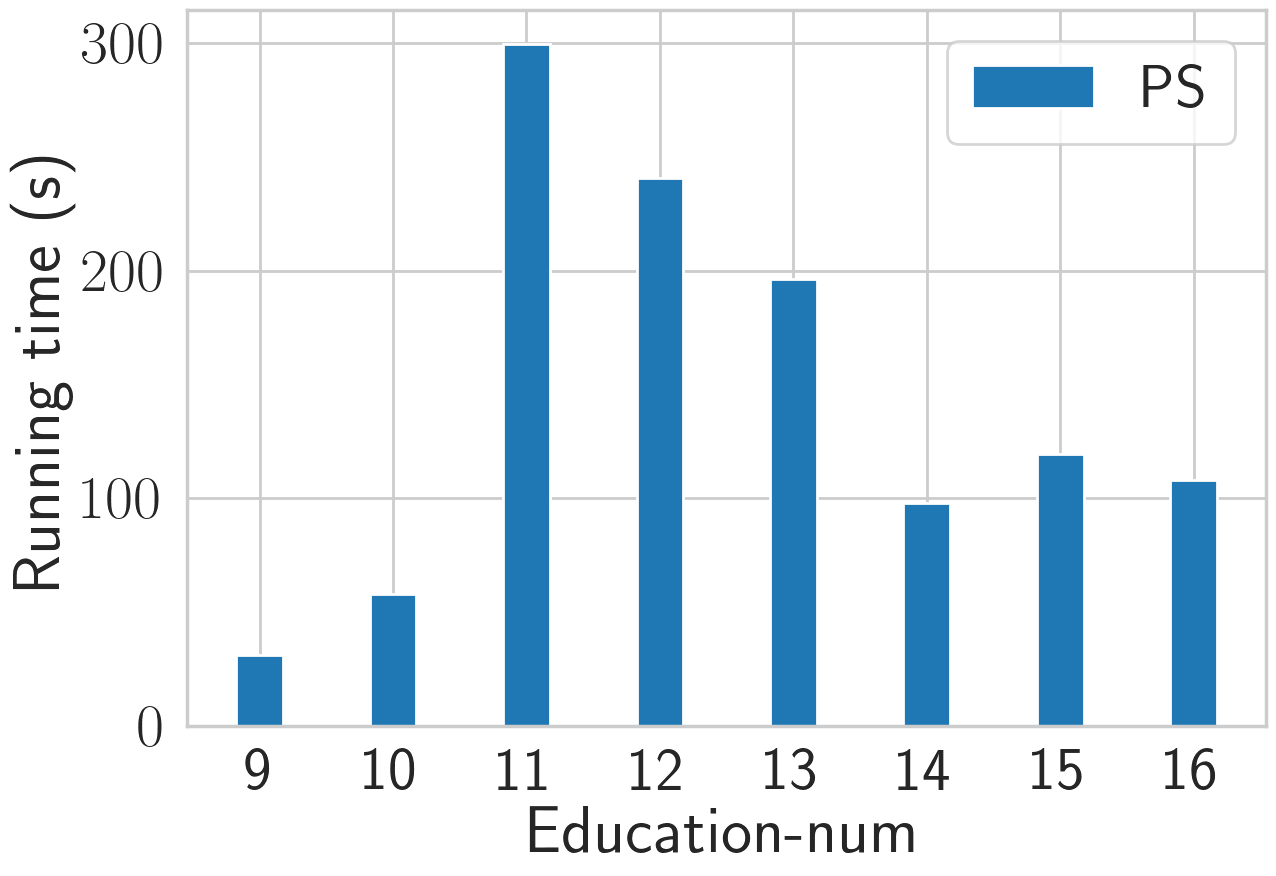
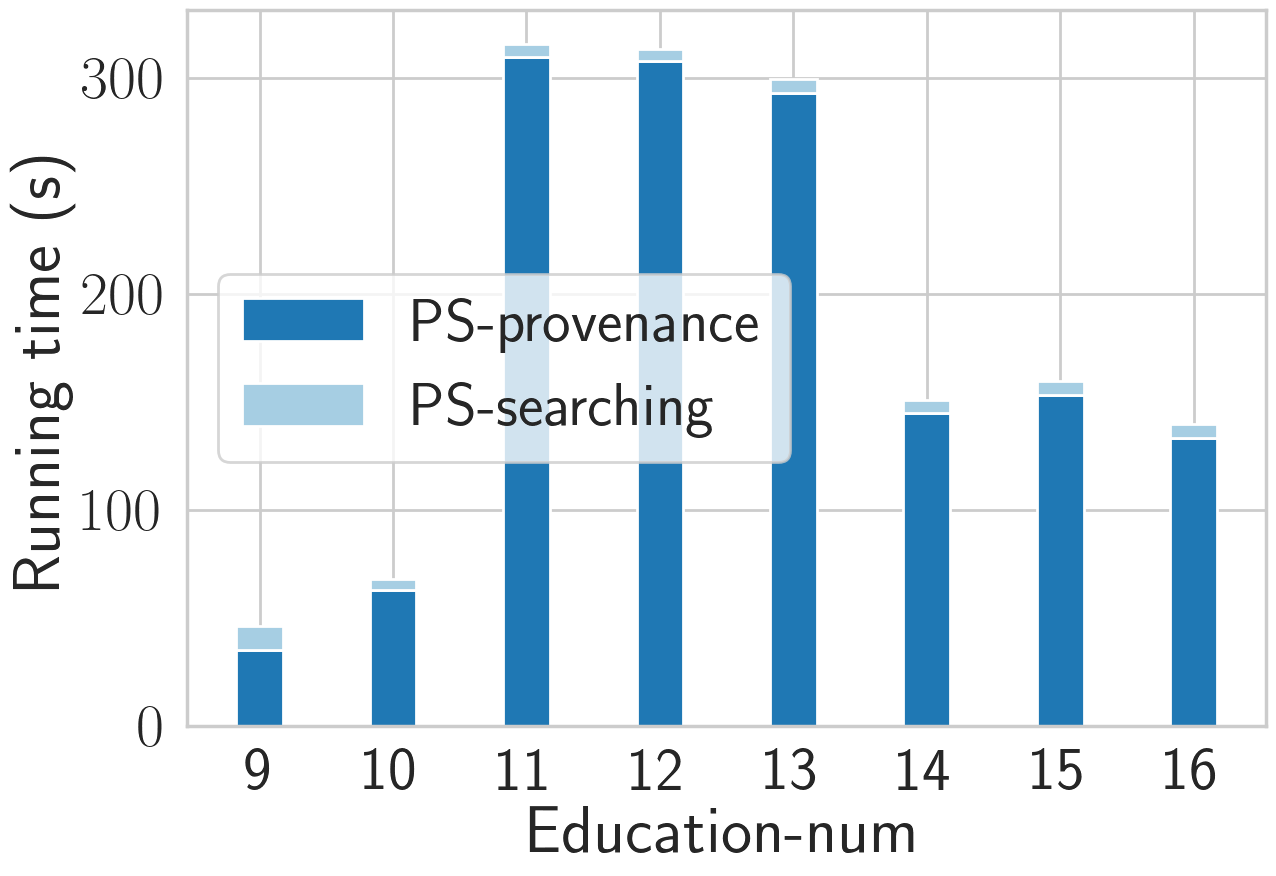
adult

diff --git a/Experiment/adult/query_change_3/Q1C3_1/fig.py b/Experiment/adult/query_change_3/Q1C3_1/fig.py
@@ -14,17 +14,15 @@ sns.set_style("whitegrid")
 # sns.palplot(sns.color_palette("deep", 10))
 # sns.palplot(sns.color_palette("Paired", 9))
 
-color = ['C1', 'C3']
-label = ["PS", "LT"]
+color = ['C1', 'C0', 'C3']
+label = ['PS-provenance', "PS-searching", "LT"]
 
 f_size = (14, 10)
 
-
-
-
 x_list = list()
 x_naive = list()
-execution_timeps = list()
+execution_timeps1 = list()
+execution_timeps2 = list()
 execution_timelt = list()
 
 input_path = r'query_change_q1c3.csv'
@@ -44,20 +42,22 @@ for line in Lines:
         break
     items = line.strip().split(',')
     x_list.append(items[0])
-    if items[1] != '':
-        execution_timeps.append(float(items[1]))
+    execution_timeps1.append(float(items[1]))
+    execution_timeps2.append(float(items[2]))
+    if len(items) == 4:
+        execution_timelt.append(float(items[3]))
     else:
-        execution_timeps.append(0)
-
-print(x_list, execution_timeps, execution_timelt)
+        execution_timelt.append(0)
+print(x_list, execution_timeps1, execution_timeps2)
 
 index = np.arange(len(x_list))
 bar_width = 0.35
 
 fig, ax = plt.subplots(1, 1, figsize=f_size)
 
-plt.bar(index, execution_timeps, bar_width, color=color[0], label=label[0])
-# plt.bar(index + bar_width, execution_timelt, bar_width,  color=color[1], label=label[1])
+plt.bar(index, execution_timeps1, bar_width, color=color[0], label=label[0])
+plt.bar(index, execution_timeps2, bar_width, bottom=execution_timeps1,
+        color=color[1], label=label[1])
 plt.xticks(index, x_list)
 
 plt.xlabel('Education-num')
